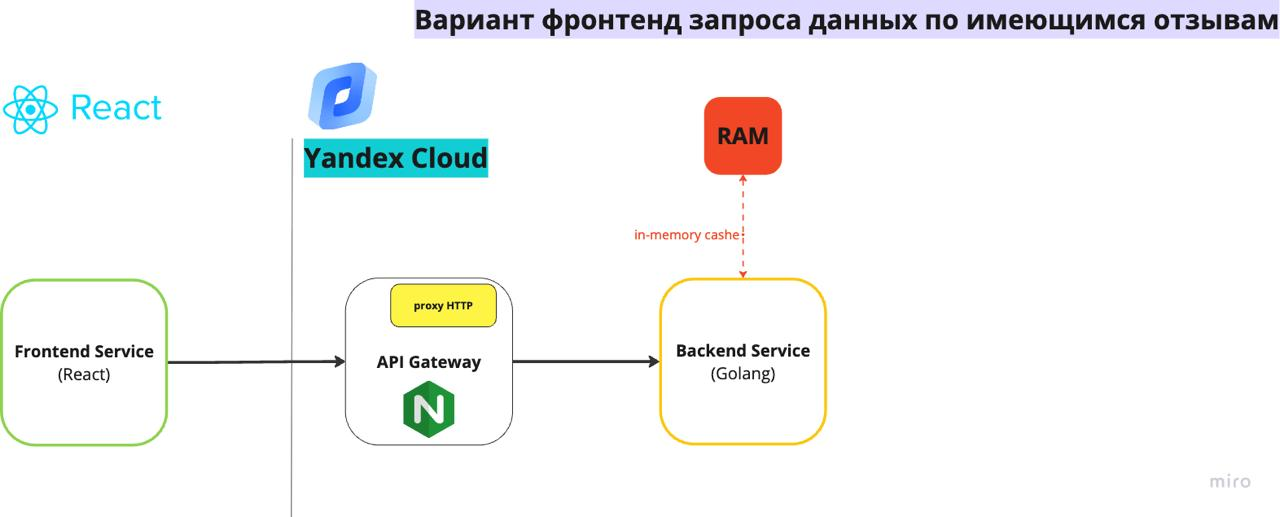
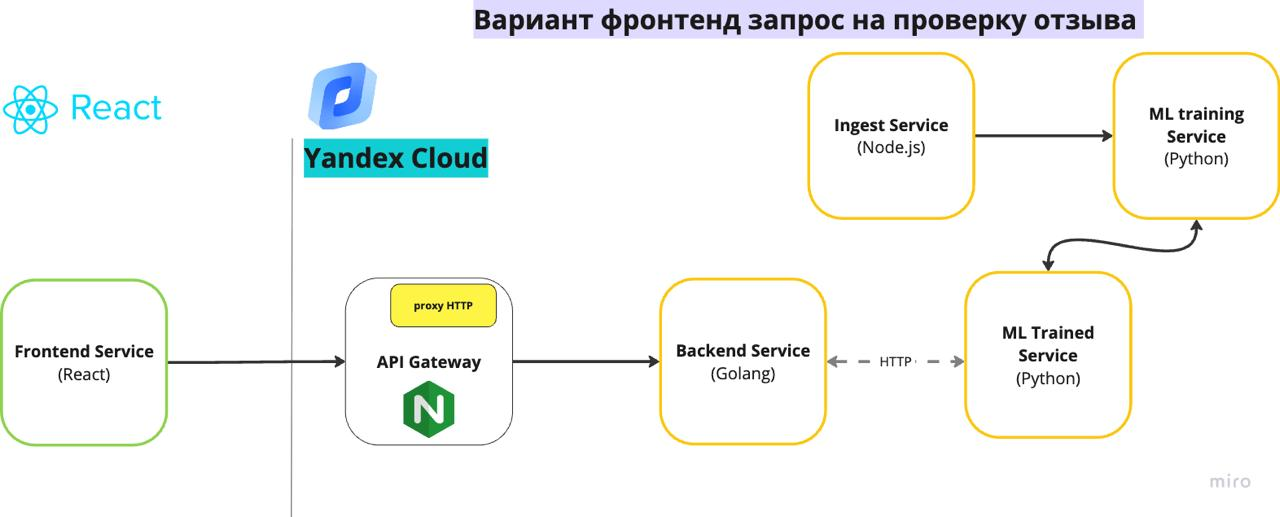
GITBOOK-23: No subject

diff --git a/getting-started/diagrams.md b/getting-started/diagrams.md
@@ -4,8 +4,9 @@ icon: diagram-project
 
 # Diagrams
 
-<figure><img src="../.gitbook/assets/image.png" alt=""><figcaption></figcaption></figure>
-
 <figure><img src="../.gitbook/assets/image (1).png" alt=""><figcaption></figcaption></figure>
 
-<figure><img src="../.gitbook/assets/image (2).png" alt=""><figcaption></figcaption></figure>
+<figure><img src="../.gitbook/assets/image (1) (1).png" alt=""><figcaption></figcaption></figure>
+
+<figure><img src="../.gitbook/assets/image.png" alt=""><figcaption></figcaption></figure>
+

diff --git a/getting-started/quickstart.md b/getting-started/quickstart.md
@@ -18,6 +18,10 @@ layout:
 
 # Quickstart
 
+### 👉 Сайт [http://hackathonweb.ru/](http://hackathonweb.ru/)
+
+### 👉 Эндпоинт [http://51.250.24.173:8080/api/v1/ml/predict](http://51.250.24.173:8080/api/v1/ml/predict)
+
 ## [Frontend Service (React.js)](https://github.com/Hackaton-Moodify-2025/frontend)
 
 ### Установка и запуск
